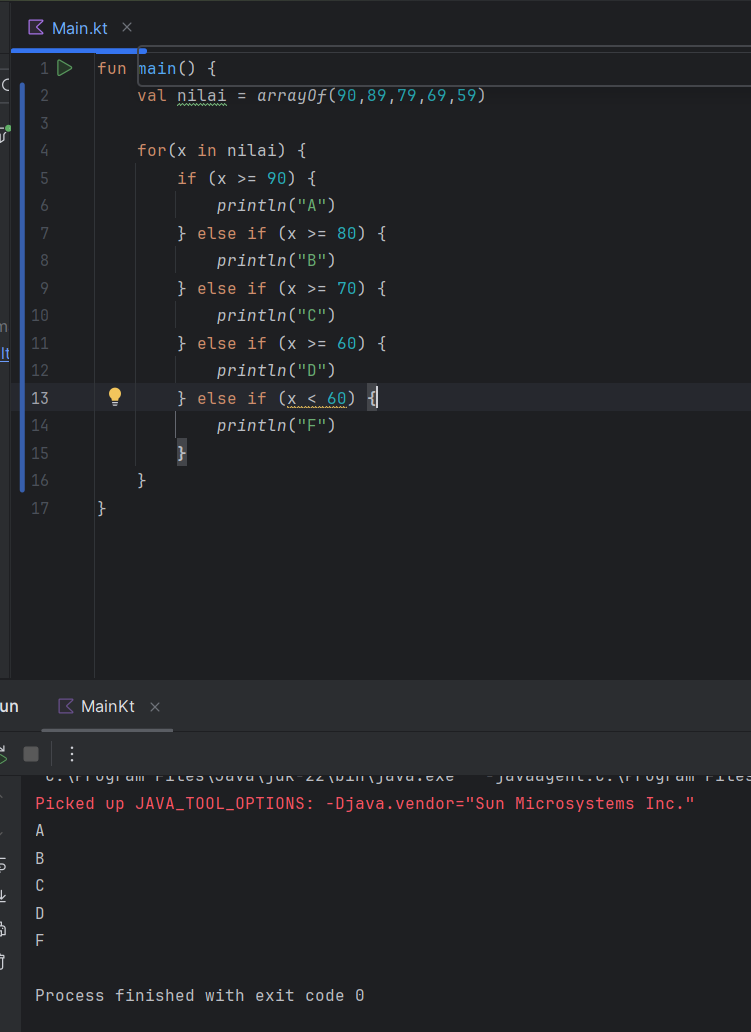
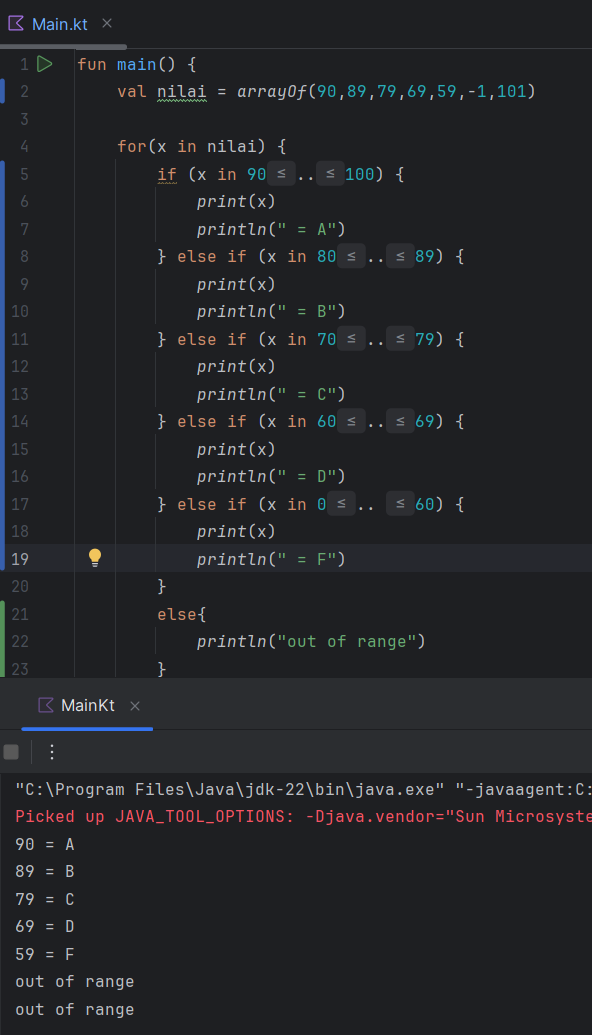
story-1

diff --git a/exercise/day-1/helloWorld/src/Main.kt b/exercise/day-1/helloWorld/src/Main.kt
@@ -1,17 +1,25 @@
 fun main() {
-    val nilai = arrayOf(90,89,79,69,59)
+    val nilai = arrayOf(90,89,79,69,59,-1,101)
 
     for(x in nilai) {
-        if (x >= 90) {
-            println("A")
-        } else if (x >= 80) {
-            println("B")
-        } else if (x >= 70) {
-            println("C")
-        } else if (x >= 60) {
-            println("D")
-        } else if (x < 60) {
-            println("F")
+        if (x in 90..100) {
+            print(x)
+            println(" = A")
+        } else if (x in 80..89) {
+            print(x)
+            println(" = B")
+        } else if (x in 70..79) {
+            print(x)
+            println(" = C")
+        } else if (x in 60..69) {
+            print(x)
+            println(" = D")
+        } else if (x in 0.. 60) {
+            print(x)
+            println(" = F")
+        }
+        else{
+            println("out of range")
         }
     }
 }
